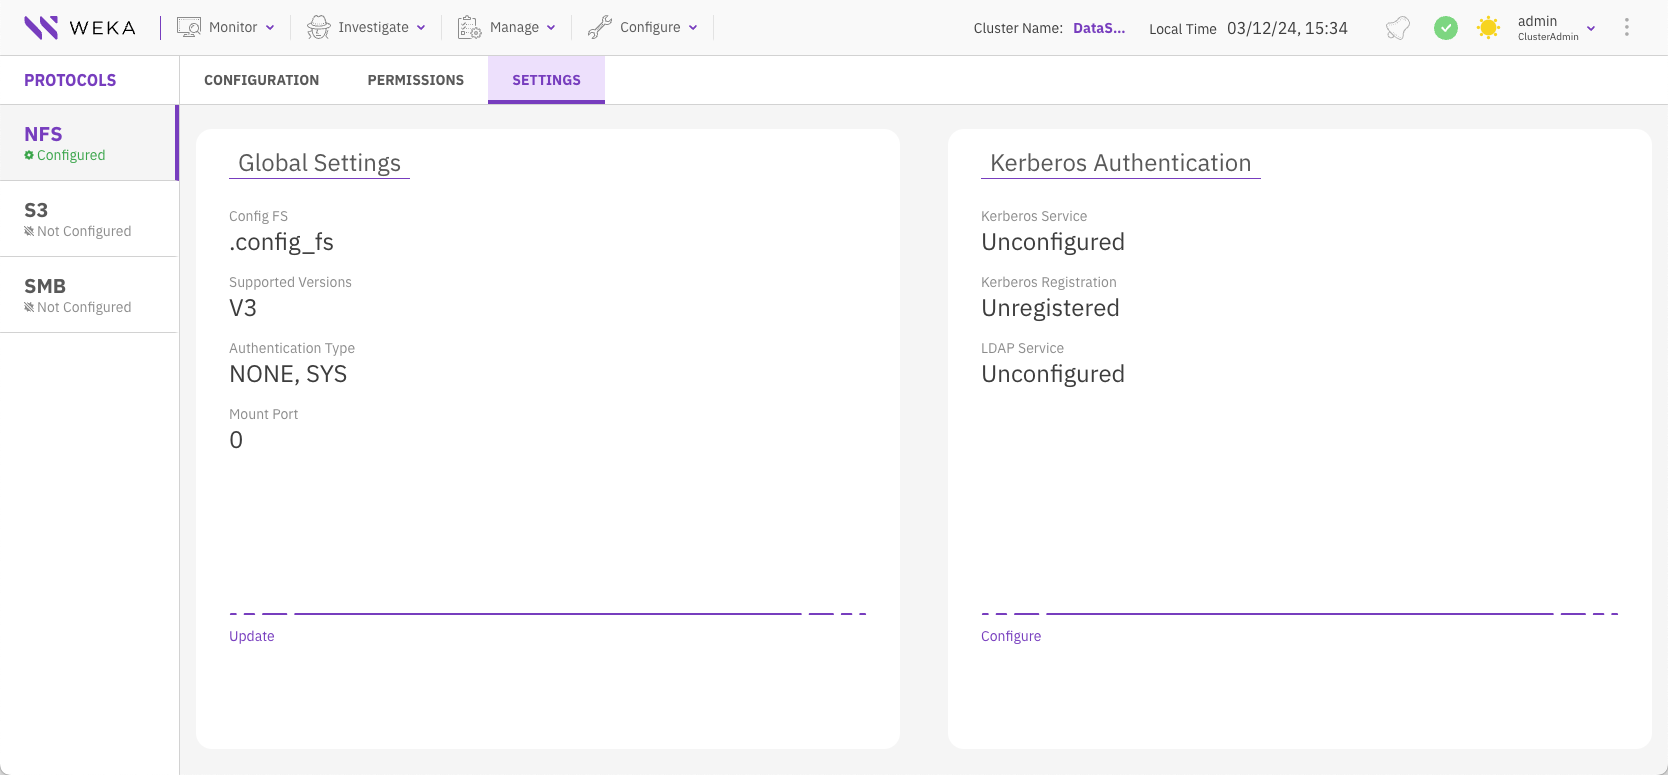
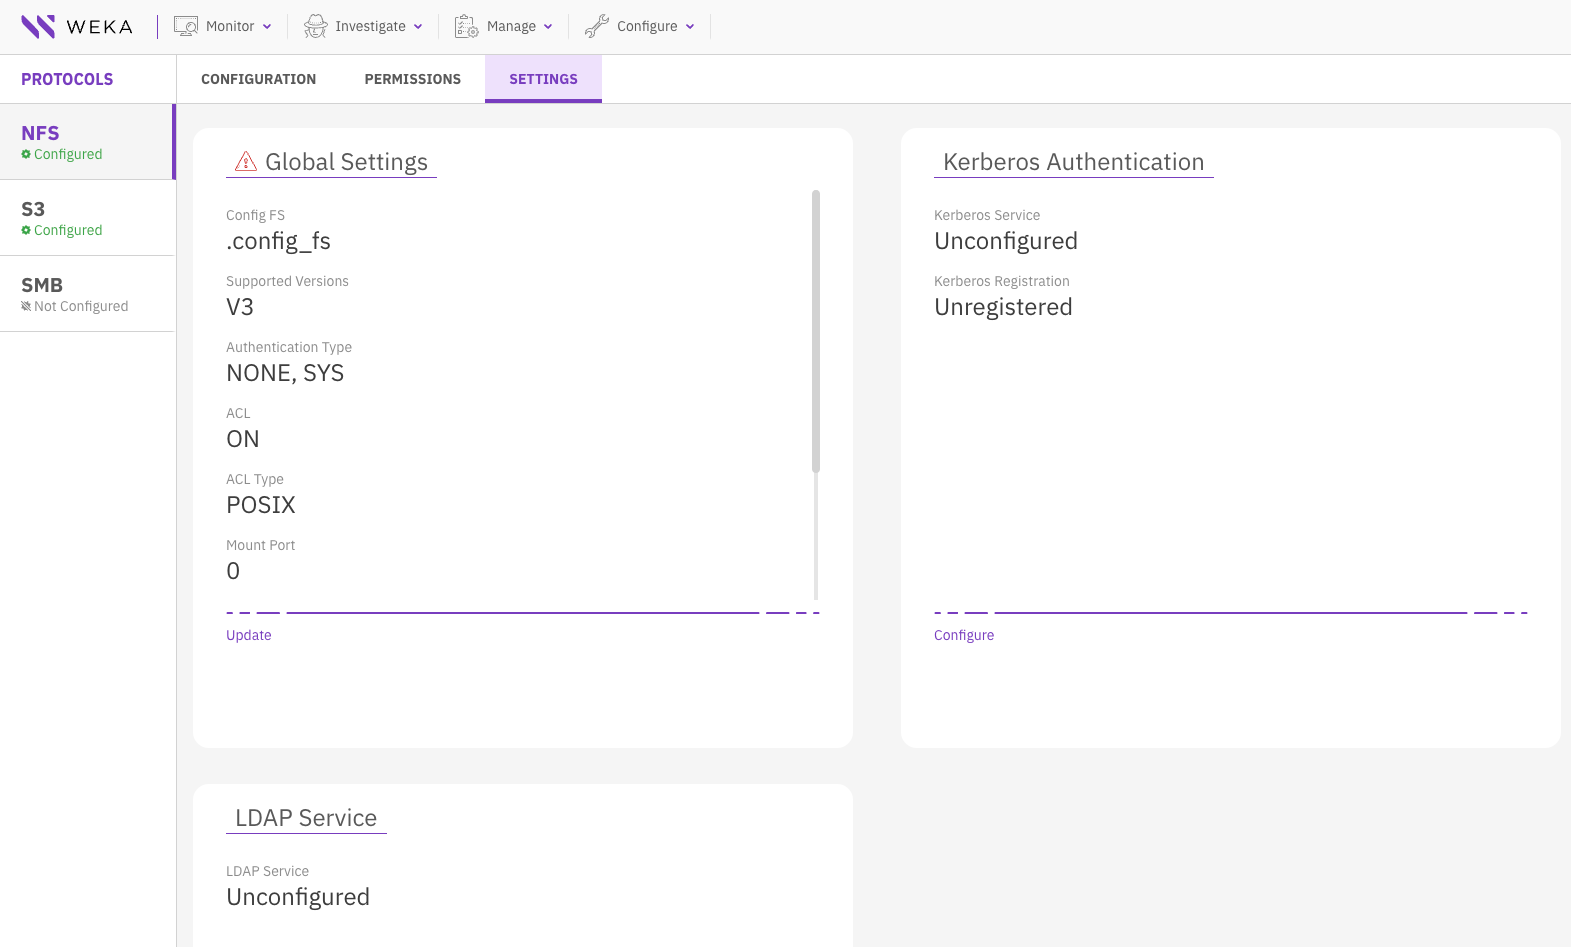
GITBOOK-30: (4.4.1) NFS: Add ACL and update procedures (WEKAPP-427071) Hemanat Mittal approved

diff --git a/additional-protocols/nfs-support/nfs-support-1.md b/additional-protocols/nfs-support/nfs-support-1.md
@@ -17,7 +17,7 @@ NFSv4 and Kerberos require a persistent cluster-wide configuration filesystem fo
 
 Use the following command line to set the NFS configuration on the configuration filesystem:
 
-`weka nfs global-config set` \[`--mountd-port mountd-port]` \[`--lockmgr-port lockmgr-port]` \[`--statmon-port statmon-port]` \[`--notify-port notify-port] [--config-fs config-fs] [--default-supported-versions default-supported-versions] [--enable-auth-types enable-auth-types]`
+`weka nfs global-config set [--mountd-port mountd-port] [--config-fs config-fs] [--lockmgr-port lockmgr-port] [--statmon-port statmon-port] [--notify-port notify-port] [--acl acl] [--default-acl-type default-acl-type] [--default-supported-versions default-supported-versions]... [--enable-auth-types enable-auth-types]... [--no-restart]`
 
 {% hint style="info" %}
 * To support NFS file-locking, ensure the system meets the prerequisites outlined in [#nfs-file-locking-support](./#nfs-file-locking-support "mention").
@@ -26,7 +26,7 @@ Use the following command line to set the NFS configuration on the configuration
 
 **Parameters**
 
-<table><thead><tr><th width="197">Name</th><th width="348">Value</th><th>Default</th></tr></thead><tbody><tr><td><code>mountd-port</code></td><td>Set the alternate port if the existing mountd service is not operating on the default published port.<br>0 means use the default published port.</td><td><code>0</code></td></tr><tr><td><code>lockmgr-port</code></td><td><p>Set the alternate port for the NFS lock manager used in NFSv3.</p><p>0 means use the default published port.</p></td><td><code>0</code></td></tr><tr><td><code>statmon-port</code></td><td>Set the alternate port for the NFS status monitor used in NFSv3.<br>0 means use the default published port.</td><td><code>0</code></td></tr><tr><td><code>notify-port</code></td><td>Set the alternate port for notification used in NFSv3.<br>0 means use the default published port.</td><td><code>0</code></td></tr><tr><td><code>config-fs</code>*</td><td>The predefined filesystem name for maintaining the persisting cluster-wide protocols' configurations.<br>Verify that the filesystem is already created. If not, create it. For details, see  <a data-mention href="../additional-protocols-overview.md#dedicated-filesystem-requirement-for-persistent-protocol-configurations">#dedicated-filesystem-requirement-for-persistent-protocol-configurations</a></td><td></td></tr><tr><td><code>default-supported-versions</code></td><td><p>Determines the default NFS version.<br>Possible values: <br><code>v3</code></p><p><code>v4</code></p><p><code>v3,v4</code></p></td><td><code>v3</code></td></tr><tr><td><code>enable-auth-types</code></td><td><p>A comma-separated list of authentication types that can be used when setting the NFS client permissions.</p><p>Possible values: <code>none,sys,krb5,krb5i,krb5p</code><br>Example:<br><code>krb5,krb5i,krb5p</code></p></td><td><p>Depends on Kerberos configuration:</p><ul><li>If not configured: <code>none,sys</code></li><li>If configured: <code>krb5</code></li></ul></td></tr></tbody></table>
+<table><thead><tr><th width="197">Name</th><th width="348">Value</th><th>Default</th></tr></thead><tbody><tr><td><code>mountd-port</code></td><td>Set the alternate port if the existing mountd service is not operating on the default published port.<br>0 means use the default published port.</td><td><code>0</code></td></tr><tr><td><code>config-fs</code>*</td><td>The predefined filesystem name for maintaining the persisting cluster-wide protocols' configurations.<br>Verify that the filesystem is already created. If not, create it. For details, see  <a data-mention href="../additional-protocols-overview.md#dedicated-filesystem-requirement-for-persistent-protocol-configurations">#dedicated-filesystem-requirement-for-persistent-protocol-configurations</a></td><td></td></tr><tr><td><code>lockmgr-port</code></td><td><p>Set the alternate port for the NFS lock manager used in NFSv3.</p><p>0 means use the default published port.</p></td><td><code>0</code></td></tr><tr><td><code>statmon-port</code></td><td>Set the alternate port for the NFS status monitor used in NFSv3.<br>0 means use the default published port.</td><td><code>0</code></td></tr><tr><td><code>notify-port</code></td><td>Set the alternate port for notification used in NFSv3.<br>0 means use the default published port.</td><td><code>0</code></td></tr><tr><td><code>acl</code></td><td>Enables or disables NFSv4 ACL. Options are:  <code>on</code> or <code>off</code>.</td><td><code>on</code></td></tr><tr><td><code>default-acl-type</code></td><td>Specifies the default ACL type. Options are <code>none</code>, <code>posix</code>, <code>nfsv4</code>, or <code>hybrid</code>. For details, see <a data-mention href="./#access-control-list-acl-in-nfs">#access-control-list-acl-in-nfs</a>.</td><td><code>posix</code></td></tr><tr><td><code>default-supported-versions</code></td><td><p>Determines the default NFS version.<br>Possible values: <br><code>v3</code></p><p><code>v4</code></p><p><code>v3,v4</code></p></td><td><code>v3</code></td></tr><tr><td><code>enable-auth-types</code></td><td><p>A comma-separated list of authentication types that can be used when setting the NFS client permissions.</p><p>Possible values: <code>none,sys,krb5,krb5i,krb5p</code><br>Example:<br><code>krb5,krb5i,krb5p</code></p></td><td><p>Depends on Kerberos configuration:</p><ul><li>If not configured: <code>none,sys</code></li><li>If configured: <code>krb5</code></li></ul></td></tr><tr><td><code>no-restart</code></td><td>Prevents the restart of NFS-W containers when applying changes.</td><td>False</td></tr></tbody></table>
 
 #### Show NFS global configuration
 
@@ -34,16 +34,17 @@ Use the following command line to set the NFS configuration on the configuration
 
 **Example**
 
-```
-$ weka nfs global-config show
+<pre><code>$ weka nfs global-config show
 NFS Global Configuration
    mountd port: 0
      Config FS: .config_fs
-Default Supported Versions: V3
-Enabled Auth Types: KRB5, KRB5i, KRB5p
-Default Auth Types: KRB5
-Supported Auth Types: NONE, SYS, KRB5, KRB5i, KRB5p
-```
+   acl: on
+   default acl type: posix
+   Default Supported Versions: V3
+<strong>   Enabled Auth Types: KRB5, KRB5i, KRB5p
+</strong>   Default Auth Types: KRB5
+   Supported Auth Types: NONE, SYS, KRB5, KRB5i, KRB5p
+</code></pre>
 
 {% hint style="info" %}
 The parameters `Default Auth Types` and `Supported Auth Types` are determined internally.
@@ -402,7 +403,7 @@ Use the following command to clear the NFS Kerberos service configuration:
 
 **Parameters**
 
-<table><thead><tr><th width="189">Name</th><th width="407">Value</th><th>Default</th></tr></thead><tbody><tr><td><code>force</code></td><td>When used, it forces the action to proceed without further confirmation. Typically used when the service is configured or registered.<br>Use this flag only to clear the configuration created by a previous call to <code>weka nfs kerberos service setup</code> succeeded.</td><td>Not used</td></tr><tr><td><code>no-restart</code></td><td>When used, it prevents NFS-W containers from restarting to apply changes.</td><td>Not used</td></tr></tbody></table>
+<table><thead><tr><th width="189">Name</th><th width="407">Value</th><th>Default</th></tr></thead><tbody><tr><td><code>force</code></td><td>When used, it forces the action to proceed without further confirmation. Typically used when the service is configured or registered.<br>Use this flag only to clear the configuration created by a previous call to <code>weka nfs kerberos service setup</code> succeeded.</td><td>False</td></tr><tr><td><code>no-restart</code></td><td>Prevents NFS-W containers from restarting when applying changes.</td><td>False</td></tr></tbody></table>
 
 {% hint style="warning" %}
 In a successful operation, the system automatically restarts the NFS containers, leading to a temporary disruption in the IO service for connected NFS clients. However, if you want to avoid restarting the NFS-W containers, add the `--no-restart` option to the command line.
@@ -480,6 +481,18 @@ reader-user-password
   2. `weka nfs ldap <setup-openldap> <options/params>`
 {% endtab %}
 {% endtabs %}
+
+### Configure NFS for LDAP with ACLs (without Kerberos)
+
+**Command:** `weka nfs ldap setup-ad-nokrb`
+
+Use the following command to configure NFS to use LDAP for ACLs only when Kerberos is not in use:
+
+`weka nfs ldap setup-ad-nokrb <server-name> <ldap-domain> <nfs-service-name> <admin-user-name> [admin-user-password] [--force] [--no-restart]`
+
+**Parameters**
+
+<table><thead><tr><th width="259">Parameter</th><th width="375">Description</th><th>Default</th></tr></thead><tbody><tr><td><code>server-name</code>*</td><td>AD server name.</td><td></td></tr><tr><td><code>ldap-domain</code>*</td><td>AD domain.</td><td></td></tr><tr><td><code>nfs-service-name</code>*</td><td><p>NFS FQDN service name.</p><p>Maximum 20 characters for hostname in FQDN.</p></td><td></td></tr><tr><td><code>admin-user-name</code>*</td><td>AD Admin Name</td><td></td></tr><tr><td><code>admin-user-password</code></td><td>AD Admin password</td><td></td></tr><tr><td><code>force</code></td><td>Force this action when Active Directory LDAP client is already setup.</td><td>False</td></tr><tr><td><code>no-restart</code></td><td>Don't restart the NFS-W containers to apply changes.</td><td>False</td></tr></tbody></table>
 
 ## **Manage the NFS export level (permissions)**
 
@@ -559,11 +572,11 @@ Use the following command lines to add or delete a rule which causes a client to
 
 Use the following command lines to add NFS permissions:
 
-`weka nfs permission add <filesystem> <group> [--path path] [--permission-type permission-type] [--squash squash] [--anon-uid anon-uid] [--anon-gid anon-gid] [--obs-direct obs-direct] [--manage-gids manage-gids] [--privileged-port privileged-port] [--supported-versions supported-versions] [--enable-auth-types enable-auth-types]`
+`weka nfs permission add <filesystem> <group> [--path path] [--permission-type permission-type] [--root-squashing root-squashing] [--squash squash] [--anon-uid anon-uid] [--anon-gid anon-gid] [--obs-direct obs-direct] [--manage-gids manage-gids] [--privileged-port privileged-port] [--acl-type acl-type] [--force-acl-type force-acl-type] [--supported-versions supported-versions]... [--enable-auth-types enable-auth-types]... [--no-restart]`
 
 Use the following command lines to update NFS permissions:
 
-`weka nfs permission update <filesystem> <group> [--path path] [--permission-type permission-type] [--squash squash] [--anon-uid anon-uid] [--anon-gid anon-gid] [--obs-direct obs-direct] [--manage-gids manage-gids] [--privileged-port privileged-port] [--supported-versions supported-versions][--enable-auth-types enable-auth-types]`
+`weka nfs permission update <filesystem> <group> [--path path] [--permission-type permission-type] [--squash squash] [--anon-uid anon-uid] [--anon-gid anon-gid] [--obs-direct obs-direct] [--manage-gids manage-gids] [--privileged-port privileged-port] [--acl-type acl-type] [--force-acl-type force-acl-type] [--supported-versions supported-versions]... [--enable-auth-types enable-auth-types]... [--no-restart]`
 
 Use the following command lines to delete NFS permissions:
 
@@ -571,7 +584,7 @@ Use the following command lines to delete NFS permissions:
 
 **Parameters**
 
-<table><thead><tr><th width="229">Name</th><th width="320">Value</th><th>Default</th></tr></thead><tbody><tr><td><code>filesystem</code>*</td><td>Existing filesystem name.<br>A filesystem with Required Authentication set to ON cannot be used for NFS client permissions.</td><td></td></tr><tr><td> <code>group</code>*</td><td>Existing client group name.</td><td></td></tr><tr><td> <code>path</code></td><td>The root of the valid share path.</td><td><code>/</code></td></tr><tr><td><code>permission-type</code></td><td>Permission type.<br>Possible values: <code>ro</code> (read-only), <code>rw</code> (read-write)</td><td><code>rw</code></td></tr><tr><td><code>squash</code></td><td>Squashing type.<br>Possible values: <code>none</code>, <code>root</code>, <code>all</code> </td><td><code>none</code></td></tr><tr><td><code>anon-uid</code>*</td><td>Anonymous user ID.<br>Relevant only for root squashing.<br>Possible values: <code>1</code> to <code>65535</code>.</td><td><code>65534</code></td></tr><tr><td><code>anon-gid</code>*</td><td>Anonymous user group ID.<br>Relevant only for root squashing.<br>Possible values: <code>1</code> to <code>65535</code>.</td><td><code>65534</code></td></tr><tr><td><code>obs-direct</code></td><td>See <a href="../../weka-filesystems-and-object-stores/tiering/advanced-time-based-policies-for-data-storage-location.md#object-store-direct-mount-option">Object-store Direct Mount</a>.<br>Possible values: <code>on</code>, <code>off</code>.</td><td><code>on</code></td></tr><tr><td><code>manage-gids</code></td><td><p>Sets external group IDs resolution.</p><p>The list of group IDs received from the client is replaced by a list determined by an appropriate lookup on the server.<br>Possible values: <code>on</code>, <code>off</code>.</p></td><td><code>off</code></td></tr><tr><td><code>privileged-port</code></td><td>Sets the share only to be mounted via privileged ports (1-1024), usually allowed by the root user.<br>Possible values: <code>on</code>, <code>off</code>.</td><td><code>off</code></td></tr><tr><td><code>supported-versions</code></td><td>A comma-separated list of supported NFS versions.<br>Possible values: <code>v3</code>, <code>v4</code>.</td><td>The <code>default-supported-versions</code> setting in <a href="nfs-support-1.md#configure-the-nfs-global-settings">NFS global settings</a> determines the default NFS version.</td></tr><tr><td><code>enable-auth-types</code></td><td>A comma-separated list of NFS authentication types.<br>Possible values are determined by the  <code>enable-auth-types</code> in <a href="nfs-support-1.md#configure-the-nfs-global-settings">NFS global settings</a>.</td><td>The <code>default-auth-types</code> in NFS global settings determine the default.</td></tr></tbody></table>
+<table><thead><tr><th width="229">Name</th><th width="320">Value</th><th>Default</th></tr></thead><tbody><tr><td><code>filesystem</code>*</td><td>Existing filesystem name.<br>A filesystem with Required Authentication set to ON cannot be used for NFS client permissions.</td><td></td></tr><tr><td> <code>group</code>*</td><td>Existing client group name.</td><td></td></tr><tr><td> <code>path</code></td><td>The root of the valid share path.</td><td><code>/</code></td></tr><tr><td><code>root-squashing</code></td><td>Toot squashing is a security feature in NFS that prevents root users on client machines from having root privileges on the NFS server. When enabled, it typically maps the root user to an anonymous UID/GID.<br>Possible values: <code>on</code>, <code>off</code></td><td><code>off</code></td></tr><tr><td><code>permission-type</code></td><td>Permission type.<br>Possible values: <code>ro</code> (read-only), <code>rw</code> (read-write)</td><td><code>rw</code></td></tr><tr><td><code>squash</code></td><td><p>Permission squashing. <br>Possible values: <code>none</code>, <code>root</code>, <code>all</code></p><p>The option 'all' can be used only on interface groups with <code>--allow-manage-gids=on</code> </p></td><td><code>none</code></td></tr><tr><td><code>anon-uid</code>*</td><td>Anonymous user ID.<br>Relevant only for root squashing.<br>Possible values: <code>1</code> to <code>65535</code>.</td><td><code>65534</code></td></tr><tr><td><code>anon-gid</code>*</td><td>Anonymous user group ID.<br>Relevant only for root squashing.<br>Possible values: <code>1</code> to <code>65535</code>.</td><td><code>65534</code></td></tr><tr><td><code>obs-direct</code></td><td>See <a href="../../weka-filesystems-and-object-stores/tiering/advanced-time-based-policies-for-data-storage-location.md#object-store-direct-mount-option">Object-store Direct Mount</a>.<br>Possible values: <code>on</code>, <code>off</code>.</td><td><code>on</code></td></tr><tr><td><code>manage-gids</code></td><td><p>Sets external group IDs resolution.</p><p>The list of group IDs received from the client is replaced by a list determined by an appropriate lookup on the server.<br>Possible values: <code>on</code>, <code>off</code>.</p></td><td><code>off</code></td></tr><tr><td><code>privileged-port</code></td><td>Sets the share only to be mounted via privileged ports (1-1024), usually allowed by the root user.<br>Possible values: <code>on</code>, <code>off</code>.</td><td><code>off</code></td></tr><tr><td><code>acl-type</code></td><td>Specifies the ACL type. Possible values: <code>none</code>, <code>posix</code>, <code>nfsv4</code>, and <code>hybrid</code>. For details, see <a data-mention href="./#access-control-list-acl-in-nfs">#access-control-list-acl-in-nfs</a>.</td><td>Default is determined by the NFS global configuration.</td></tr><tr><td><code>force-acl-type</code></td><td>Forces a change to the ACL type for existing permissions on the same filesystem. Possible values:  <code>on</code> or <code>off</code>.</td><td><code>off</code></td></tr><tr><td><code>supported-versions</code></td><td>A comma-separated list of supported NFS versions.<br>Possible values: <code>v3</code>, <code>v4</code>.</td><td>The <code>default-supported-versions</code> setting in <a href="nfs-support-1.md#configure-the-nfs-global-settings">NFS global settings</a> determines the default NFS version.</td></tr><tr><td><code>enable-auth-types</code></td><td>A comma-separated list of NFS authentication types.<br>Possible values are determined by the  <code>enable-auth-types</code> in <a href="nfs-support-1.md#configure-the-nfs-global-settings">NFS global settings</a>.</td><td>The <code>default-auth-types</code> in NFS global settings determine the default.</td></tr><tr><td><code>no-restart</code></td><td>Prevents NFS-W containers from restarting when applying changes.</td><td>False</td></tr></tbody></table>
 
 ### View connected NFS clients
 

diff --git a/additional-protocols/nfs-support/README.md b/additional-protocols/nfs-support/README.md
@@ -62,12 +62,39 @@ Set the TTL (Time to Live) for all records assigned to the NFS servers to 0 (Zer
 
 The NFS client mount is configured using the standard NFS stack operating system. The NFS server IP address must point to the round-robin DNS name.
 
-### NFS access control (client access groups)
+### Access Control List (ACL) in NFS
 
-The NFS client permission groups are defined to control the access mapping between the servers and the filesystems. Each NFS client permission group contains the following:
+Access Control List (ACL) in NFS (Network File System) provide fine-grained control over file permissions, offering more flexibility than traditional POSIX permissions. NFS supports multiple ACL flavors, each serving different use cases and interoperability needs.
 
-* A list of filters for IP addresses or DNS names of clients that can be connected to the WEKA system by NFS.
-* A collection of rules that control access to specific filesystems.
+**ACL types in NFS**
+
+NFS supports the following ACL types:
+
+* **None**: No ACL enforcement or updates occur, even if POSIX ACLs exist on a file or directory. This flavor is used when ACL management is unnecessary.
+* **POSIX**: NFS enforces POSIX ACLs, ensuring compatibility with other protocols. However, the finer granularity of NFSv4 ACLs is lost when mapped to POSIX ACLs. This option is suitable for environments requiring basic ACL management across multiple protocols.
+* **NFSv4**: NFSv4 ACLs are enforced directly, without mapping to POSIX ACLs. This flavor preserves the full granularity of NFSv4 ACLs but does not support interoperability with other protocols. ACLs are stored as extended attributes and mapped to user and group IDs (UID/GID). Use NFSv4 when full NFSv4 ACL granularity is required, and interoperability with other protocols is not a concern.
+* **Hybrid**: This flavor combines both POSIX and NFSv4 ACLs to support interoperability. NFS ensures consistency between the two ACL types, and if any inconsistency arises, POSIX ACL is used for enforcement. Hybrid is ideal for environments requiring both interoperability and full NFSv4 ACL functionality.
+
+**NFSv3 and ACLs**
+
+NFSv3 supports only the **None** and **POSIX** ACL flavors. Any attempt to set ACLs from NFSv3 clients using other flavors is not applicable. NFS does not enforce ACLs on NFSv3 clients, but the underlying filesystem handles access control if POSIX ACLs are present.
+
+**Managing ACLs in NFS**
+
+ACL configuration and management in NFS can be done through various interfaces:
+
+* **CLI**: The `weka nfs permission` and `weka nfs global-config` commands allow users to configure ACLs at the permission and cluster level. NFS permissions exporting files from the same backend file system must share the same ACL flavor.
+* **GUI**: The NFS settings in the user interface include options to enable ACLs and configure default ACL flavors (None, POSIX, NFSv4, Hybrid). Changes to ACL settings may require restarting the NFS containers.
+* **Configuration filesystem**:\
+  ACL flavors and related configurations are tracked in the global configuration filesystem, ensuring consistent management of permissions across the system.
+
+**LDAP and ACLs**
+
+For ACL functionality, LDAP must be configured to manage user and group information. If Kerberos is set up, no additional LDAP configuration is necessary. Otherwise, LDAP configuration options are provided, supporting both Active Directory (AD) and OpenLDAP.
+
+**Upgrading and ACLs**
+
+When upgrading, the default ACL flavor for all permissions sets to **POSIX**. ACLs are enabled by default. To ensure proper ACL functionality, both `.config_fs` and LDAP must be configured.
 
 ### NFS integration with Kerberos service
 

diff --git a/additional-protocols/nfs-support/nfs-support.md b/additional-protocols/nfs-support/nfs-support.md
@@ -36,6 +36,12 @@ To support NFS file-locking, ensure the system meets the prerequisites outlined 
 4. In the Global Settings section, select **Update**, and do the following:
    * **Config FS**: Select the cluster-wide configuration filesystem that maintains the NFS and Kerberos configurations.
    * **Supported Versions**: Select the NFS versions you want to support based on your needs. Options include V3, V4, or both.
+   * **ACL**: Sets the ACL to ON (default) or OFF.
+   * **ACL Type**: Defines the default access control method for the share. Options are:
+     * **None:** No ACL enforcement or updates, regardless of existing POSIX ACLs.
+     * **POSIX** (default): Enforces POSIX ACLs, compatible across protocols, but loses NFSv4's finer granularity.
+     * **NFSv4**: Enforces NFSv4 ACLs directly, retaining full granularity, but lacks interoperability with other protocols.
+     * **Hybrid**: Combines both POSIX and NFSv4 ACLs to support interoperability. NFS ensures consistency between the two ACL types, and if any inconsistency arises, POSIX ACL is used for enforcement.
    *   **Authentication Type**: Enable the authentication types that can be used when setting the NFS client permissions. \
        Possible values:
 
@@ -239,7 +245,7 @@ Creating additional client groups helps in better organization, customization of
 ![Add a client group](../../.gitbook/assets/wmng\_add\_nfs\_client\_group\_add.png)
 
 2. In the Create Client Group dialog, set the client group name.
-3. Select **Save**.&#x20;
+3. Select **Save**.
 
 ![Create client group dialog](../../.gitbook/assets/wmng\_add\_nfs\_client\_group\_dialog.png)
 
